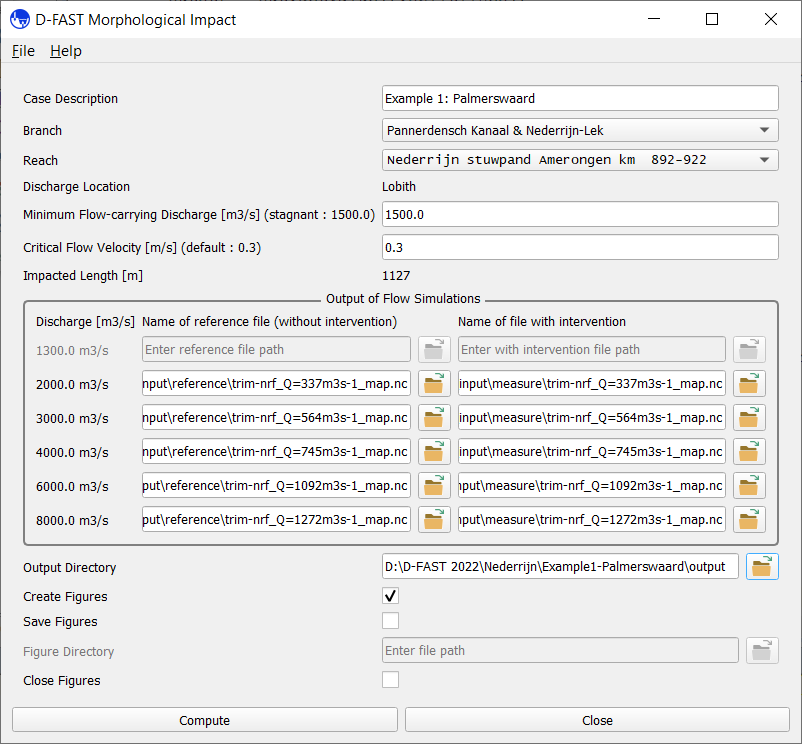
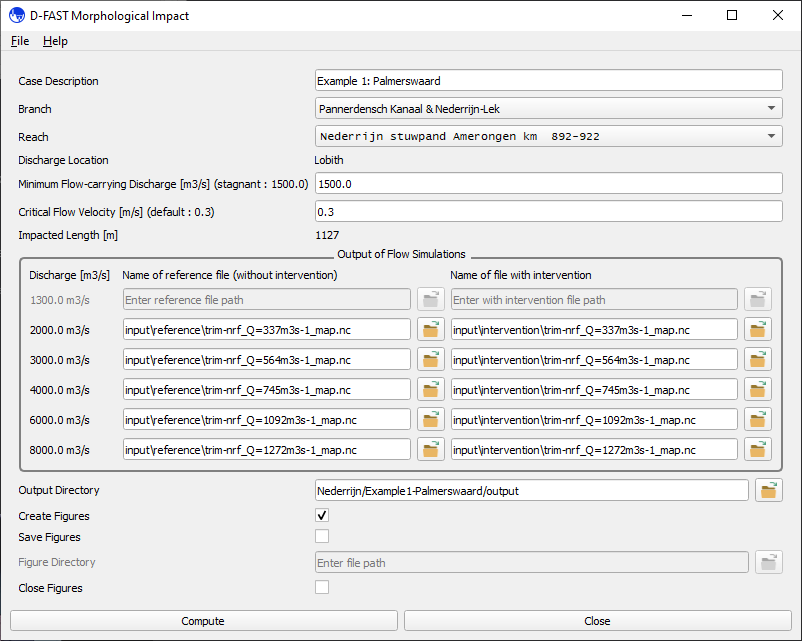
DFAST-235 Process review remarks (#125)
* DFAST-235 apply suggested typo changes.

* DFAST-235 Resolve indenting

* DFAST-235 Resolve folder name, only pictures still need to be updated

* DFAST-235 Load and save configs to resolve indents

* DFAST-235 revert typo change, excerpt is correct and not a typo.

* DFAST-235 Update measure file naming to intervention

* DFAST-235 Update measure file naming to intervention figures for documentation

* DFAST-235 Update ref files.

* DFAST-235 Update ref files by removing unintended spaces

diff --git a/tests/gui/test_dialog_model.py b/tests/gui/test_dialog_model.py
@@ -77,7 +77,7 @@ def mock_reference_files() -> FilenameDict:
 
 @pytest.fixture
 def mock_intervention_files() -> FilenameDict:
-    """Fixture for creating mock interventionment files."""
+    """Fixture for creating mock intervention files."""
     return {80.1: "intervention1.txt", 80.2: "intervention2.txt"}
 
 
@@ -219,9 +219,9 @@ def test_check_configuration(
     """
     Test case for checking configuration.
 
-    given: A DialogModel instance and mocked branch, reach, reference files, and interventionment files.
+    given: A DialogModel instance and mocked branch, reach, reference files, and intervention files.
     when: Checking the configuration.
-    then: The configuration is checked with the expected branch, reach, reference files, and interventionment files.
+    then: The configuration is checked with the expected branch, reach, reference files, and intervention files.
     """
     # Mocking the method calls inside the methods
     dialog_model.get_configuration = MagicMock(return_value=ConfigParser())
@@ -262,7 +262,7 @@ def test_get_configuration(
     """
     Test case for getting configuration.
 
-    given: A DialogModel instance and mocked branch, reach, reference files, and interventionment files.
+    given: A DialogModel instance and mocked branch, reach, reference files, and intervention files.
     when: Getting the configuration.
     then: The configuration is retrieved and checked for correctness.
     """
@@ -311,7 +311,7 @@ def test_get_configuration_with_reach(
     """
     Test case for getting configuration.
 
-    given: A DialogModel instance and mocked branch, reach, reference files, and interventionment files.
+    given: A DialogModel instance and mocked branch, reach, reference files, and intervention files.
     when: Getting the configuration.
     then: The configuration is retrieved and checked for correctness.
     """

diff --git a/tests/batch/test_AnalyserAndReporterDflowfm.py b/tests/batch/test_AnalyserAndReporterDflowfm.py
@@ -58,9 +58,9 @@ class Test_analyse_and_report_dflowfm_mode:
         self.initialized_config = initialized_config
 
     def set_file_names(self):
-        self.filenames[0] = ("measure-Q1_map.nc", "measure-Q1_map.nc")
-        self.filenames[1] = ("measure-Q2_map.nc", "measure-Q2_map.nc")
-        self.filenames[2] = ("measure-Q3_map.nc", "measure-Q3_map.nc")
+        self.filenames[0] = ("intervention-Q1_map.nc", "intervention-Q1_map.nc")
+        self.filenames[1] = ("intervention-Q2_map.nc", "intervention-Q2_map.nc")
+        self.filenames[2] = ("intervention-Q3_map.nc", "intervention-Q3_map.nc")
 
     def set_plotting_on(self, tmp_path):
         self.plotting_options.plotting = True
@@ -125,9 +125,9 @@ class Test_analyse_and_report_dflowfm_mode:
         self.initialized_config.needs_tide = display_needs_tide_old_zmin_zmax.needs_tide
         outputdir = tmp_path
 
-        self.filenames["0"] = ("measure-Q1_map.nc", "measure-Q1_map.nc")
-        self.filenames["1"] = ("measure-Q2_map.nc", "measure-Q2_map.nc")
-        self.filenames["2"] = ("measure-Q3_map.nc", "measure-Q3_map.nc")
+        self.filenames["0"] = ("intervention-Q1_map.nc", "intervention-Q1_map.nc")
+        self.filenames["1"] = ("intervention-Q2_map.nc", "intervention-Q2_map.nc")
+        self.filenames["2"] = ("intervention-Q3_map.nc", "intervention-Q3_map.nc")
 
         succes = AnalyserAndReporterDflowfm.analyse_and_report_dflowfm(
             display_needs_tide_old_zmin_zmax.display,

diff --git a/docs/chapters/sim2ugrid.tex b/docs/chapters/sim2ugrid.tex
@@ -6,7 +6,7 @@ In the following sections we discuss to which degree \dfmi depends on \dflowfm s
 
 \section{File format assumptions}
 
-Simulation files (both with and without intervention) should contain \emph{one} 2D UGRID mesh variable.
+Simulation files (both with and without interventions to the river) should contain \emph{one} 2D UGRID mesh variable.
 These variables must be identifiable by means of the attributes \keyw{cf\_role = mesh\_topology} and \keyw{topology\_dimension = 2}.
 The \keyw{face\_node\_connectivity} attribute of this variable must point to the face-node connectivity of the 2D mesh.
 The \keyw{node\_coordinates} attribute must point to the x,y coordinates of the nodes; currently.

diff --git a/dfastmi/batch/AnalyserDflowfm.py b/dfastmi/batch/AnalyserDflowfm.py
@@ -120,7 +120,7 @@ class AnalyserDflowfm:
             Dictionary of the names of the data file containing the simulation
             results to be processed. The conditions (discharge, wave conditions,
             ...) are the key in the dictionary. Per condition a tuple of two file
-            names is given: a reference file and a file with intervention.
+            names is given: a reference file and a file with interventions to the river.
         xykm : shapely.geometry.linestring.LineString
             Original river chainage line.
         plotting_options : PlotOptions

diff --git a/dfastmi/batch/AnalyserAndReporterDflowfm.py b/dfastmi/batch/AnalyserAndReporterDflowfm.py
@@ -67,7 +67,7 @@ def analyse_and_report_dflowfm(
         Dictionary of the names of the data file containing the simulation
         results to be processed. The conditions (discharge, wave conditions,
         ...) are the key in the dictionary. Per condition a tuple of two file
-        names is given: a reference file and a file with intervention.
+        names is given: a reference file and a file with interventions to the river.
     xykm : shapely.geometry.linestring.LineString
         Original river chainage line.
     old_zmin_zmax : bool

diff --git a/dfastmi/gui/dialog_view.py b/dfastmi/gui/dialog_view.py
@@ -807,7 +807,7 @@ class DialogView:
             enabled,
             self._view_model.intervention_files,
             with_intervention_label,
-            "Enter with intervention file path",
+            "Enter with interventions to the river file path",
         )
 
         discharge_value_label = QLabel(discharge_name, self._win)
